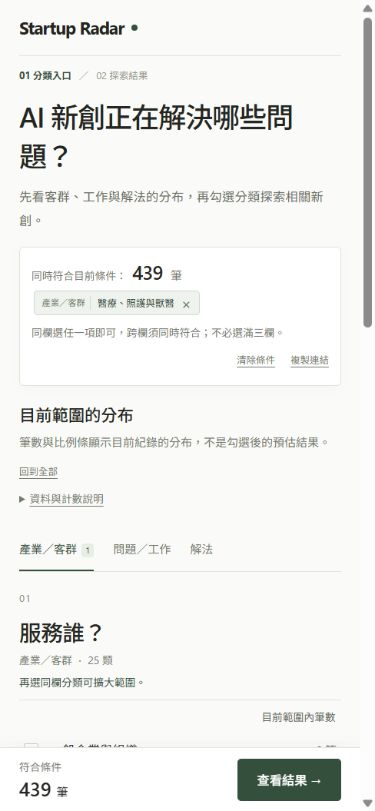
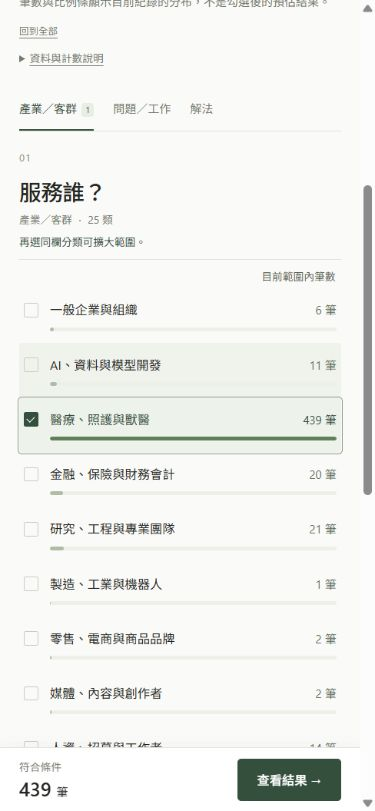
Record verified compact portal deployment [skip ci]

diff --git a/docs/progress-2026-11-03.md b/docs/progress-2026-11-03.md
@@ -2,6 +2,8 @@
 
 ## 同日接續：首頁 UX 三項改善
 
+改版 `b400a02` 已上線，Actions `41646183866` 成功。公開頁面已確認精簡首屏、三欄計數標示及手機固定結果列（醫療 439 筆），截圖已更新為線上版本。
+
 依使用者確認的前三項 review 修正首頁：各欄說明目前範圍內筆數、已選欄提示繼續多選可擴大；精簡首屏介紹與控制，資料來源／比例／限制收進計數說明；手機固定底部筆數與查看結果。未新增排序功能，篩選、去重和原始資料不變。24 項測試通過，建置與桌面／手機操作驗證紀錄見 [首頁 UX review](layer-one-ux-review.md)。
 
 ## 同日接續：首頁整體分布
